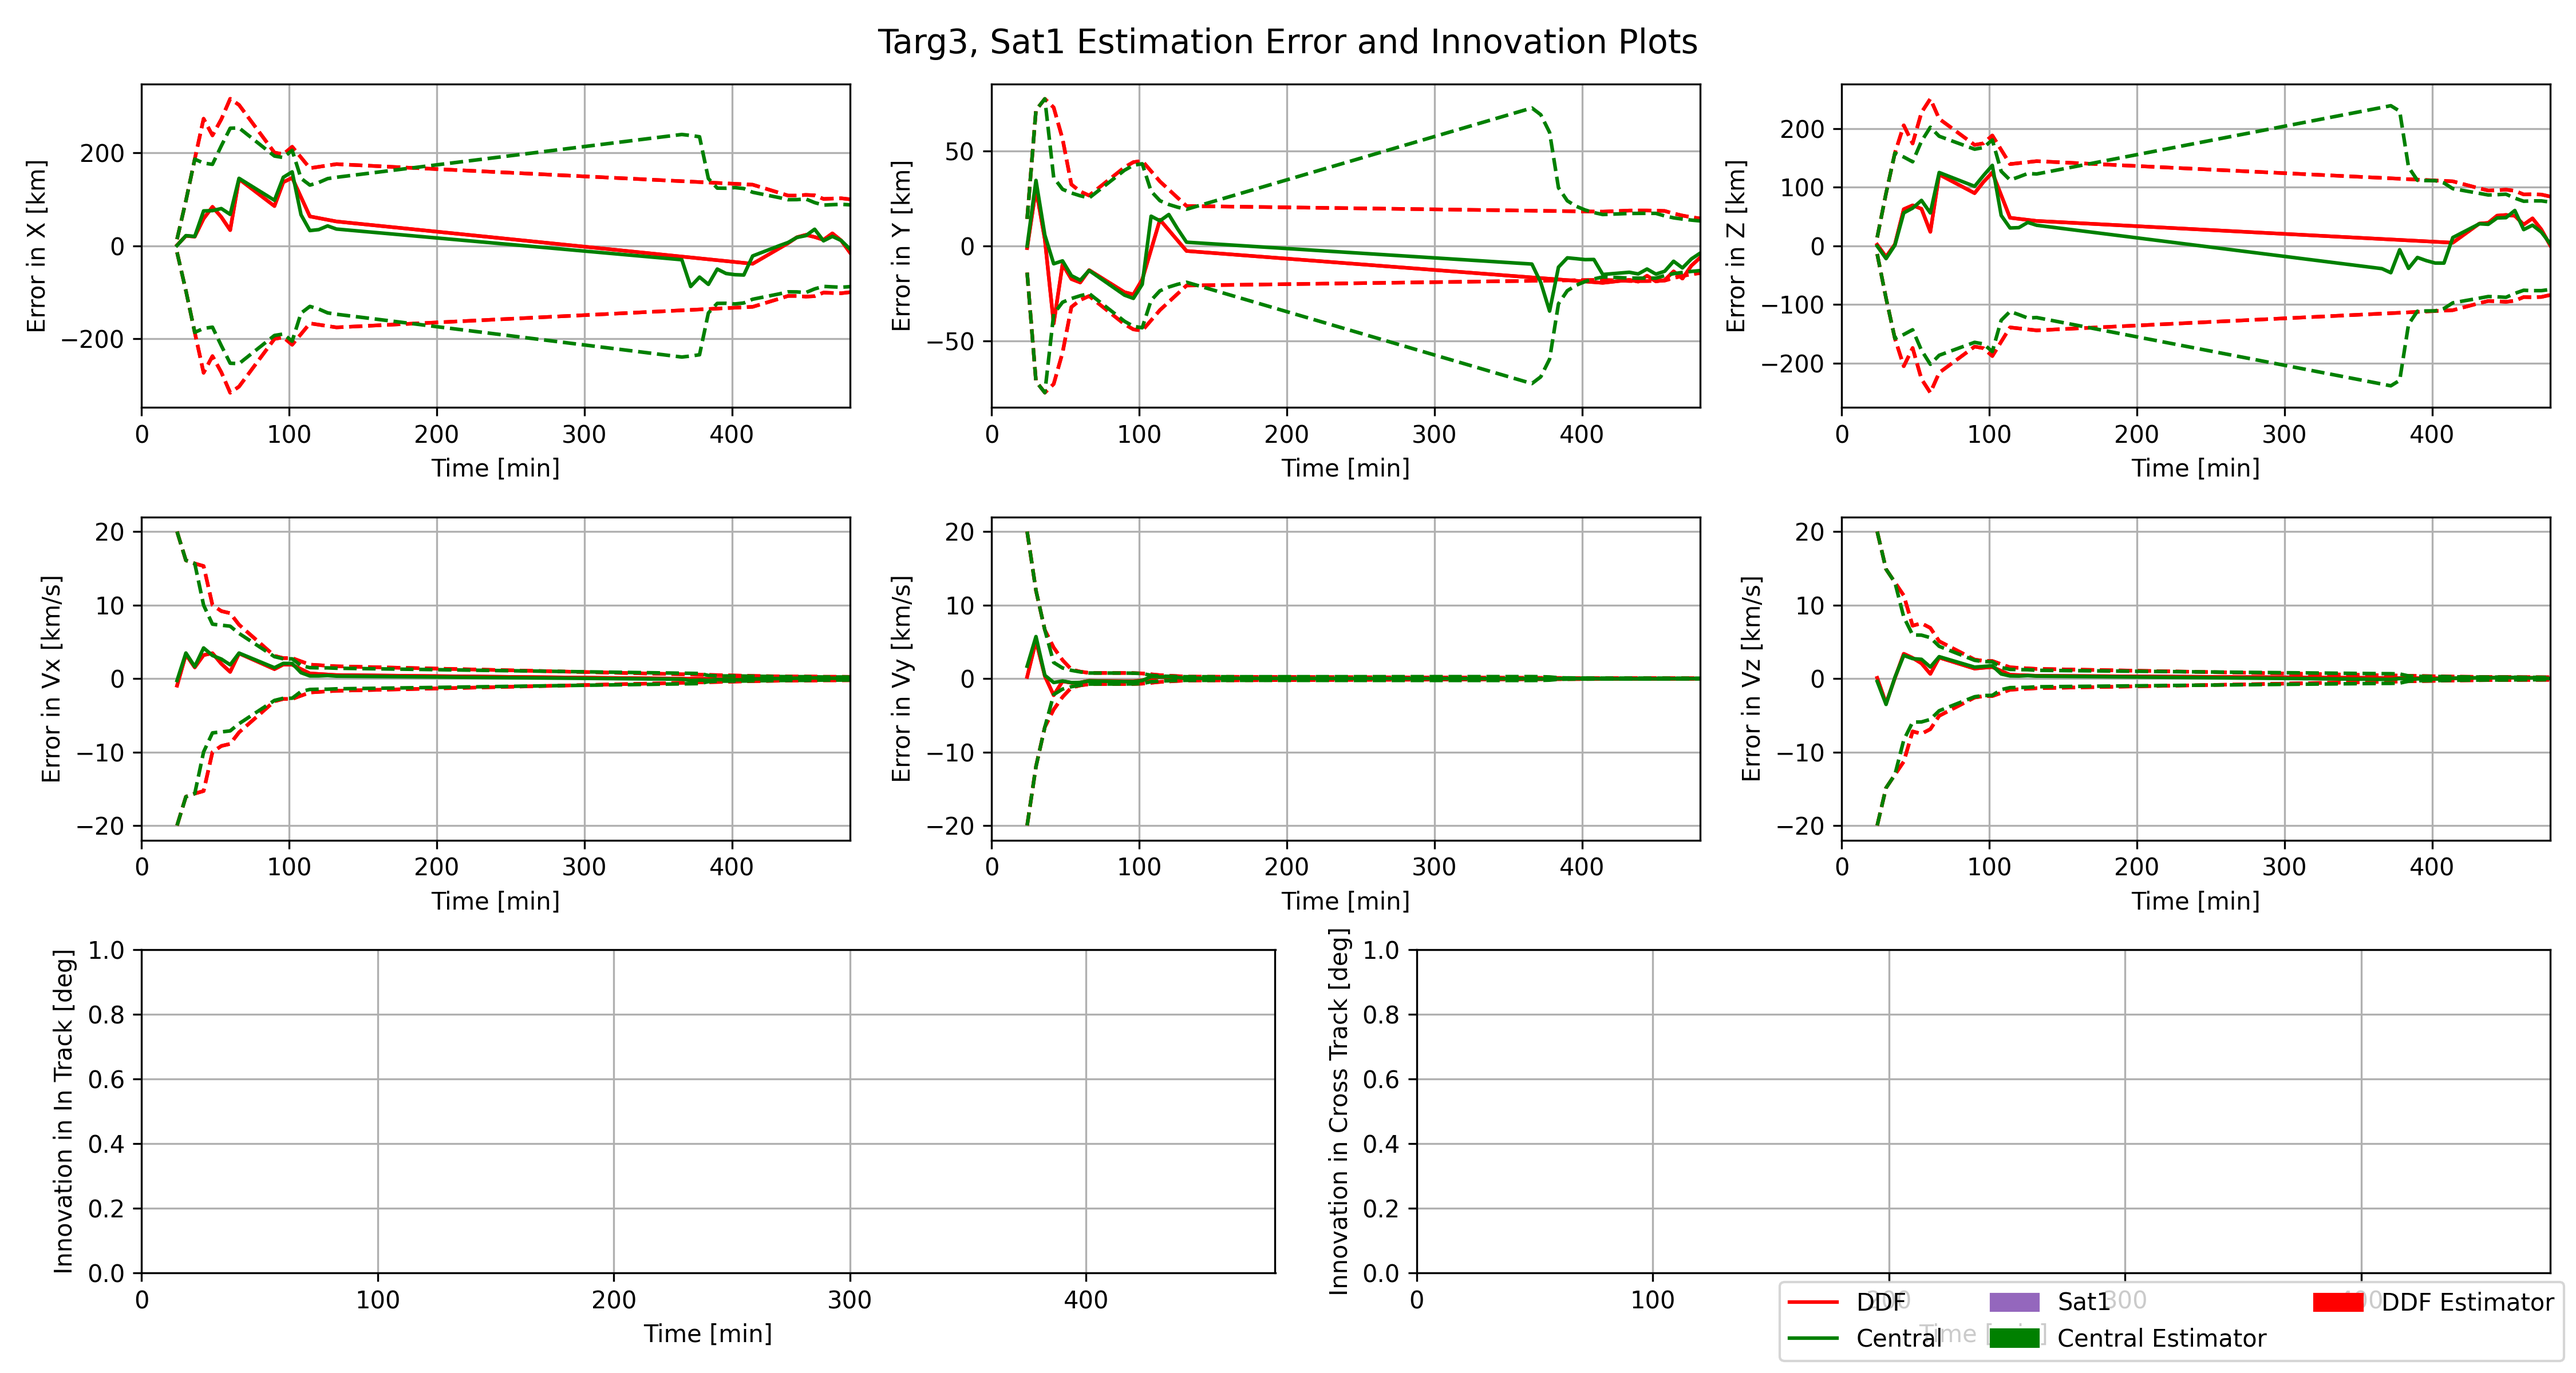
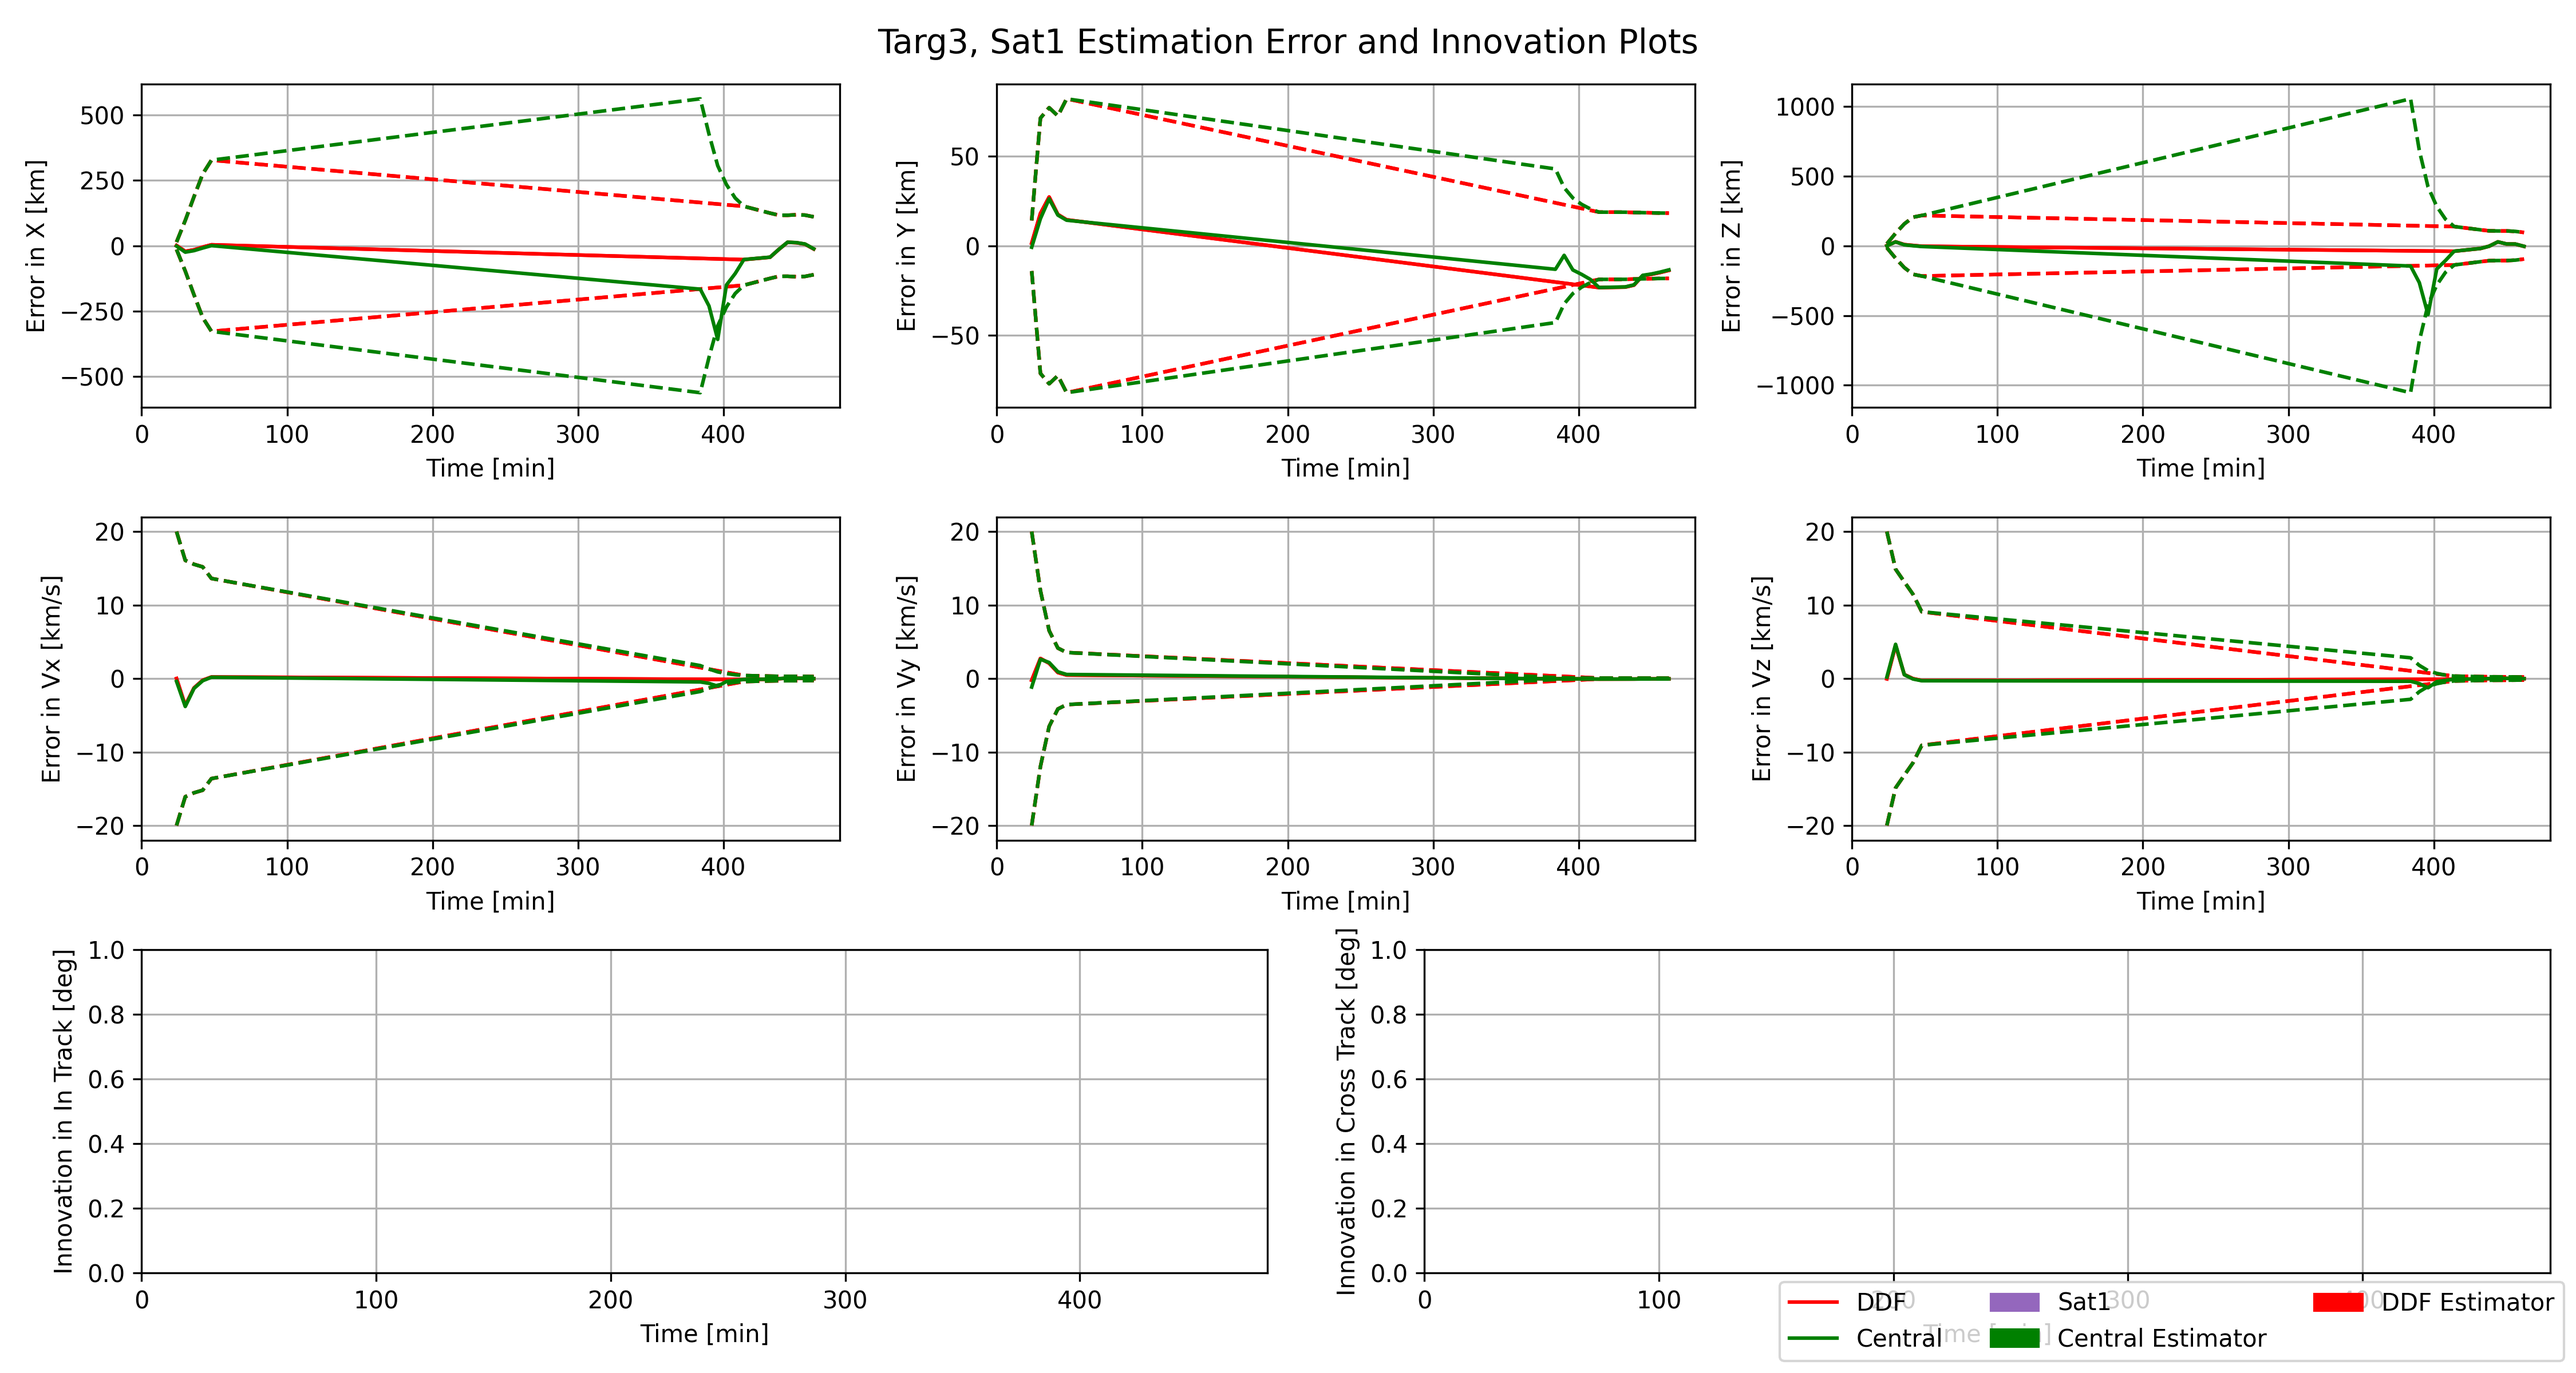
great results and final test sim

diff --git a/phase1/main.py b/phase1/main.py
@@ -36,30 +36,31 @@ def create_environment():
 
     purple_shades = ['#9467BD']
     blue_shades = ['#87CEEB', '#6495ED', '#0000FF']
-    yellow_shades = ['#FDDA0D', '#FFBF00', '#E49B0F']
-    red_shades = ['#EE4B2B', '#DE3163', '#800020']
+    yellow_shades = ['#FFBF00', '#E49B0F', '#FDDA0D']
+    red_shades = ['#EE4B2B', '#800020', '#DE3163']
 
     # MONO TRACK SATELLITE
     sat1 = satellite(name = 'Sat1', sensor = deepcopy(sens), targetIDs=targetIDs, indeptEstimator=deepcopy(local), ddfEstimator=deepcopy(ddf), a = Earth.R + 12000 * u.km, ecc = 0, inc = 0, raan = -45, argp = 0, nu = 0, color=purple_shades[0])
 
     # POLAR ORBIT SATELLITES
-    sat2_1 = satellite(name = 'Sat2.1', sensor = deepcopy(sens), targetIDs=targetIDs, indeptEstimator=deepcopy(local), ddfEstimator=deepcopy(ddf), a = Earth.R + 12000 * u.km, ecc = 0, inc = 90, raan = 180, argp = 0, nu = 150, color=blue_shades[0])
+    sat2 = satellite(name = 'Sat2', sensor = deepcopy(sens), targetIDs=targetIDs, indeptEstimator=deepcopy(local), ddfEstimator=deepcopy(ddf), a = Earth.R + 12000 * u.km, ecc = 0, inc = 90, raan = 180, argp = 0, nu = 150, color=blue_shades[0])
     sat2_2 = satellite(name = 'Sat2.2', sensor = deepcopy(sens), targetIDs=targetIDs, indeptEstimator=deepcopy(local), ddfEstimator=deepcopy(ddf), a = Earth.R + 12000 * u.km, ecc = 0, inc = 90, raan = 180, argp = 0, nu = 150 - 60, color=blue_shades[1])
     sat2_3 = satellite(name = 'Sat2.3', sensor = deepcopy(sens), targetIDs=targetIDs, indeptEstimator=deepcopy(local), ddfEstimator=deepcopy(ddf), a = Earth.R + 12000 * u.km, ecc = 0, inc = 90, raan = 180, argp = 0, nu = 150 - 60*2, color=blue_shades[2])
    
     # INCLINATION 50 SATELLITES
-    sat3_1 = satellite(name = 'Sat3.1', sensor = deepcopy(sens), targetIDs=targetIDs, indeptEstimator=deepcopy(local), ddfEstimator=deepcopy(ddf), a = Earth.R + 12000 * u.km, ecc = 0, inc = 50, raan = -135, argp = 0, nu = 90 + 60*2 - 180, color=yellow_shades[0])
+    sat3 = satellite(name = 'Sat3', sensor = deepcopy(sens), targetIDs=targetIDs, indeptEstimator=deepcopy(local), ddfEstimator=deepcopy(ddf), a = Earth.R + 12000 * u.km, ecc = 0, inc = 50, raan = -135, argp = 0, nu = 90, color=yellow_shades[0])
     sat3_2 = satellite(name = 'Sat3.2', sensor = deepcopy(sens), targetIDs=targetIDs, indeptEstimator=deepcopy(local), ddfEstimator=deepcopy(ddf), a = Earth.R + 12000 * u.km, ecc = 0, inc = 50, raan = -135, argp = 0, nu = 90 + 60, color=yellow_shades[1])
-    sat3_3 = satellite(name = 'Sat3.3', sensor = deepcopy(sens), targetIDs=targetIDs, indeptEstimator=deepcopy(local), ddfEstimator=deepcopy(ddf), a = Earth.R + 12000 * u.km, ecc = 0, inc = 50, raan = -135, argp = 0, nu = 90, color=yellow_shades[2])
+    sat3_1 = satellite(name = 'Sat3.3', sensor = deepcopy(sens), targetIDs=targetIDs, indeptEstimator=deepcopy(local), ddfEstimator=deepcopy(ddf), a = Earth.R + 12000 * u.km, ecc = 0, inc = 50, raan = -135, argp = 0, nu = 90 + 60*2 - 180, color=yellow_shades[2])
 
-    sats = [sat1, sat2_1, sat2_2, sat2_3, sat3_1, sat3_2, sat3_3]
+    # sats = [sat1, sat2_1, sat2_2, sat2_3, sat3_1, sat3_2, sat3_3]
+    sats = [sat1, sat2, sat3]
     # sats = []
 
     # Define the target objects:
     # At M = 4.7, hypersonic
     targ1 = target(name = 'Targ1', targetID=1, cords = np.array([0,-45,0]), heading=90, speed= 1.61538*60, climbrate = 0, color = red_shades[0])
     # At M = 0.7, transonic speed
-    targ2 = target(name = 'Targ2', targetID=2, cords = np.array([75,-5,0]), heading=180, speed= 0.2401*60, climbrate = 0, color = red_shades[1])
+    targ2 = target(name = 'Targ2', targetID=2, cords = np.array([90,-5,0]), heading=180, speed= 0.2401*60, climbrate = 0, color = red_shades[1])
     # At 50 mph 
     targ3 = target(name = 'Targ3', targetID=3, cords = np.array([45,0,0]), heading=180 + 45, speed= 0.022352*60, climbrate = 0, color = red_shades[2])
     
